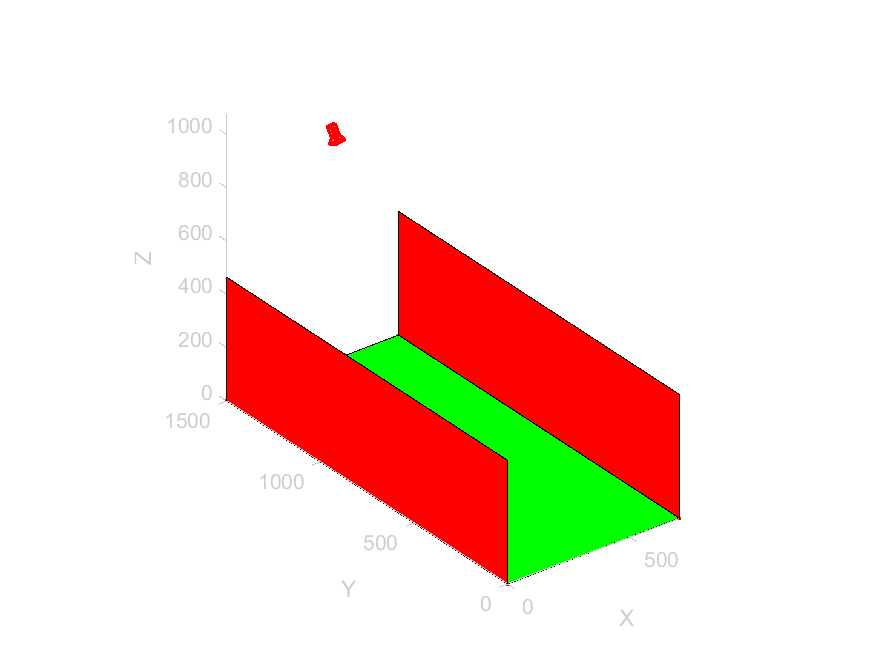
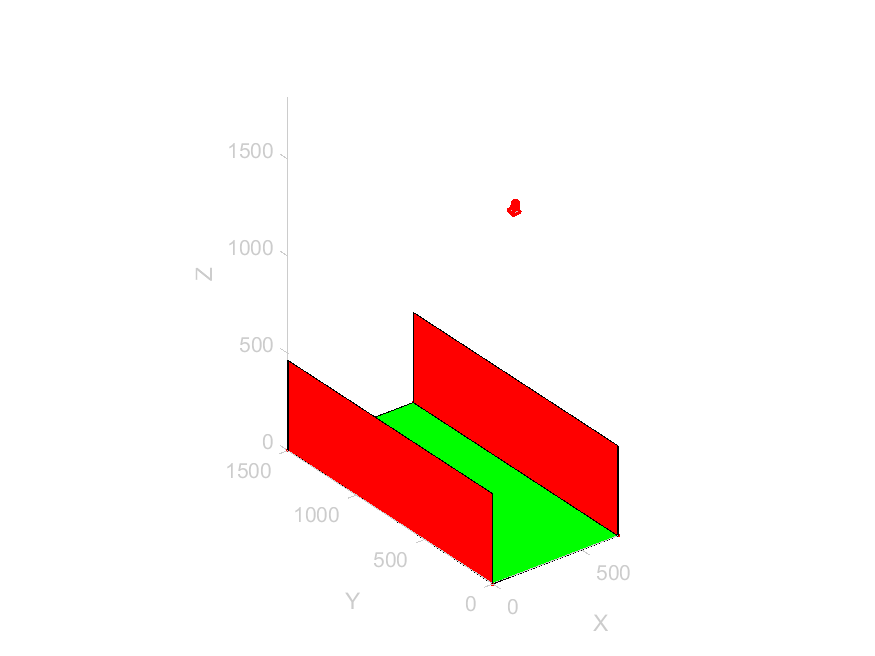
update point G4

diff --git a/src/camera_localization.m b/src/camera_localization.m
@@ -16,6 +16,11 @@ function camera_localization(K, points, ratio_f2_f3, ratio_f3_height_f3_length, 
     lower_right_point = [LENGTH_LONGSIDE/ratio_f3_height_f3_length 0];
     upper_right_point = [LENGTH_LONGSIDE/ratio_f3_height_f3_length LENGTH_LONGSIDE];
 
+    points.upper_left_corner = [272; 535; 1];
+    points.upper_right_corner = [732; 552; 1];
+    points.lower_right_corner = [802; 1295; 1];
+    points.lower_left_corner = [202; 1312; 1];
+
     % fit the homography from scene to image 
     H_omography = fitgeotrans([upper_left_point; lower_left_point; lower_right_point; upper_right_point], ...
                               [points.upper_left_corner(1:2).'; points.lower_left_corner(1:2).'; points.lower_right_corner(1:2).'; points.upper_right_corner(1:2).'], ...
@@ -28,7 +33,7 @@ function camera_localization(K, points, ratio_f2_f3, ratio_f3_height_f3_length, 
     h2 = H_omography(:,2);
     h3 = H_omography(:,3);
     
-    % normalization factor.
+    % normalization factor
     lambda = 1 / norm(K \ h1);
     
     % r1 = K^-1 * h1 normalized
@@ -38,7 +43,7 @@ function camera_localization(K, points, ratio_f2_f3, ratio_f3_height_f3_length, 
     
     %% compute rotation of the world with respect to the camera (R cam -> world)
     % in this case the world is the vertical facade (face ?????)
-    R = [r1, r3, r3];
+    R = [r1, r2, r3];
 
     % due to noise in the data R may be not a true rotation matrix.
     % approximate it through svd, obtaining a orthogonal matrix
@@ -53,6 +58,10 @@ function camera_localization(K, points, ratio_f2_f3, ratio_f3_height_f3_length, 
     % since T is expressed in the camera reference frame we want it in the plane
     % reference frame, R.' is the rotation of the camera with respect to the plane
     cameraPosition = -R.'*T;
+    cameraPosition = cameraPosition ./ cameraPosition(2);
+    cameraPosition = cameraPosition .* 150;
+
+    display(cameraPosition)
 
 
     %% Display orientation and position from vertical facace (face ?????)
